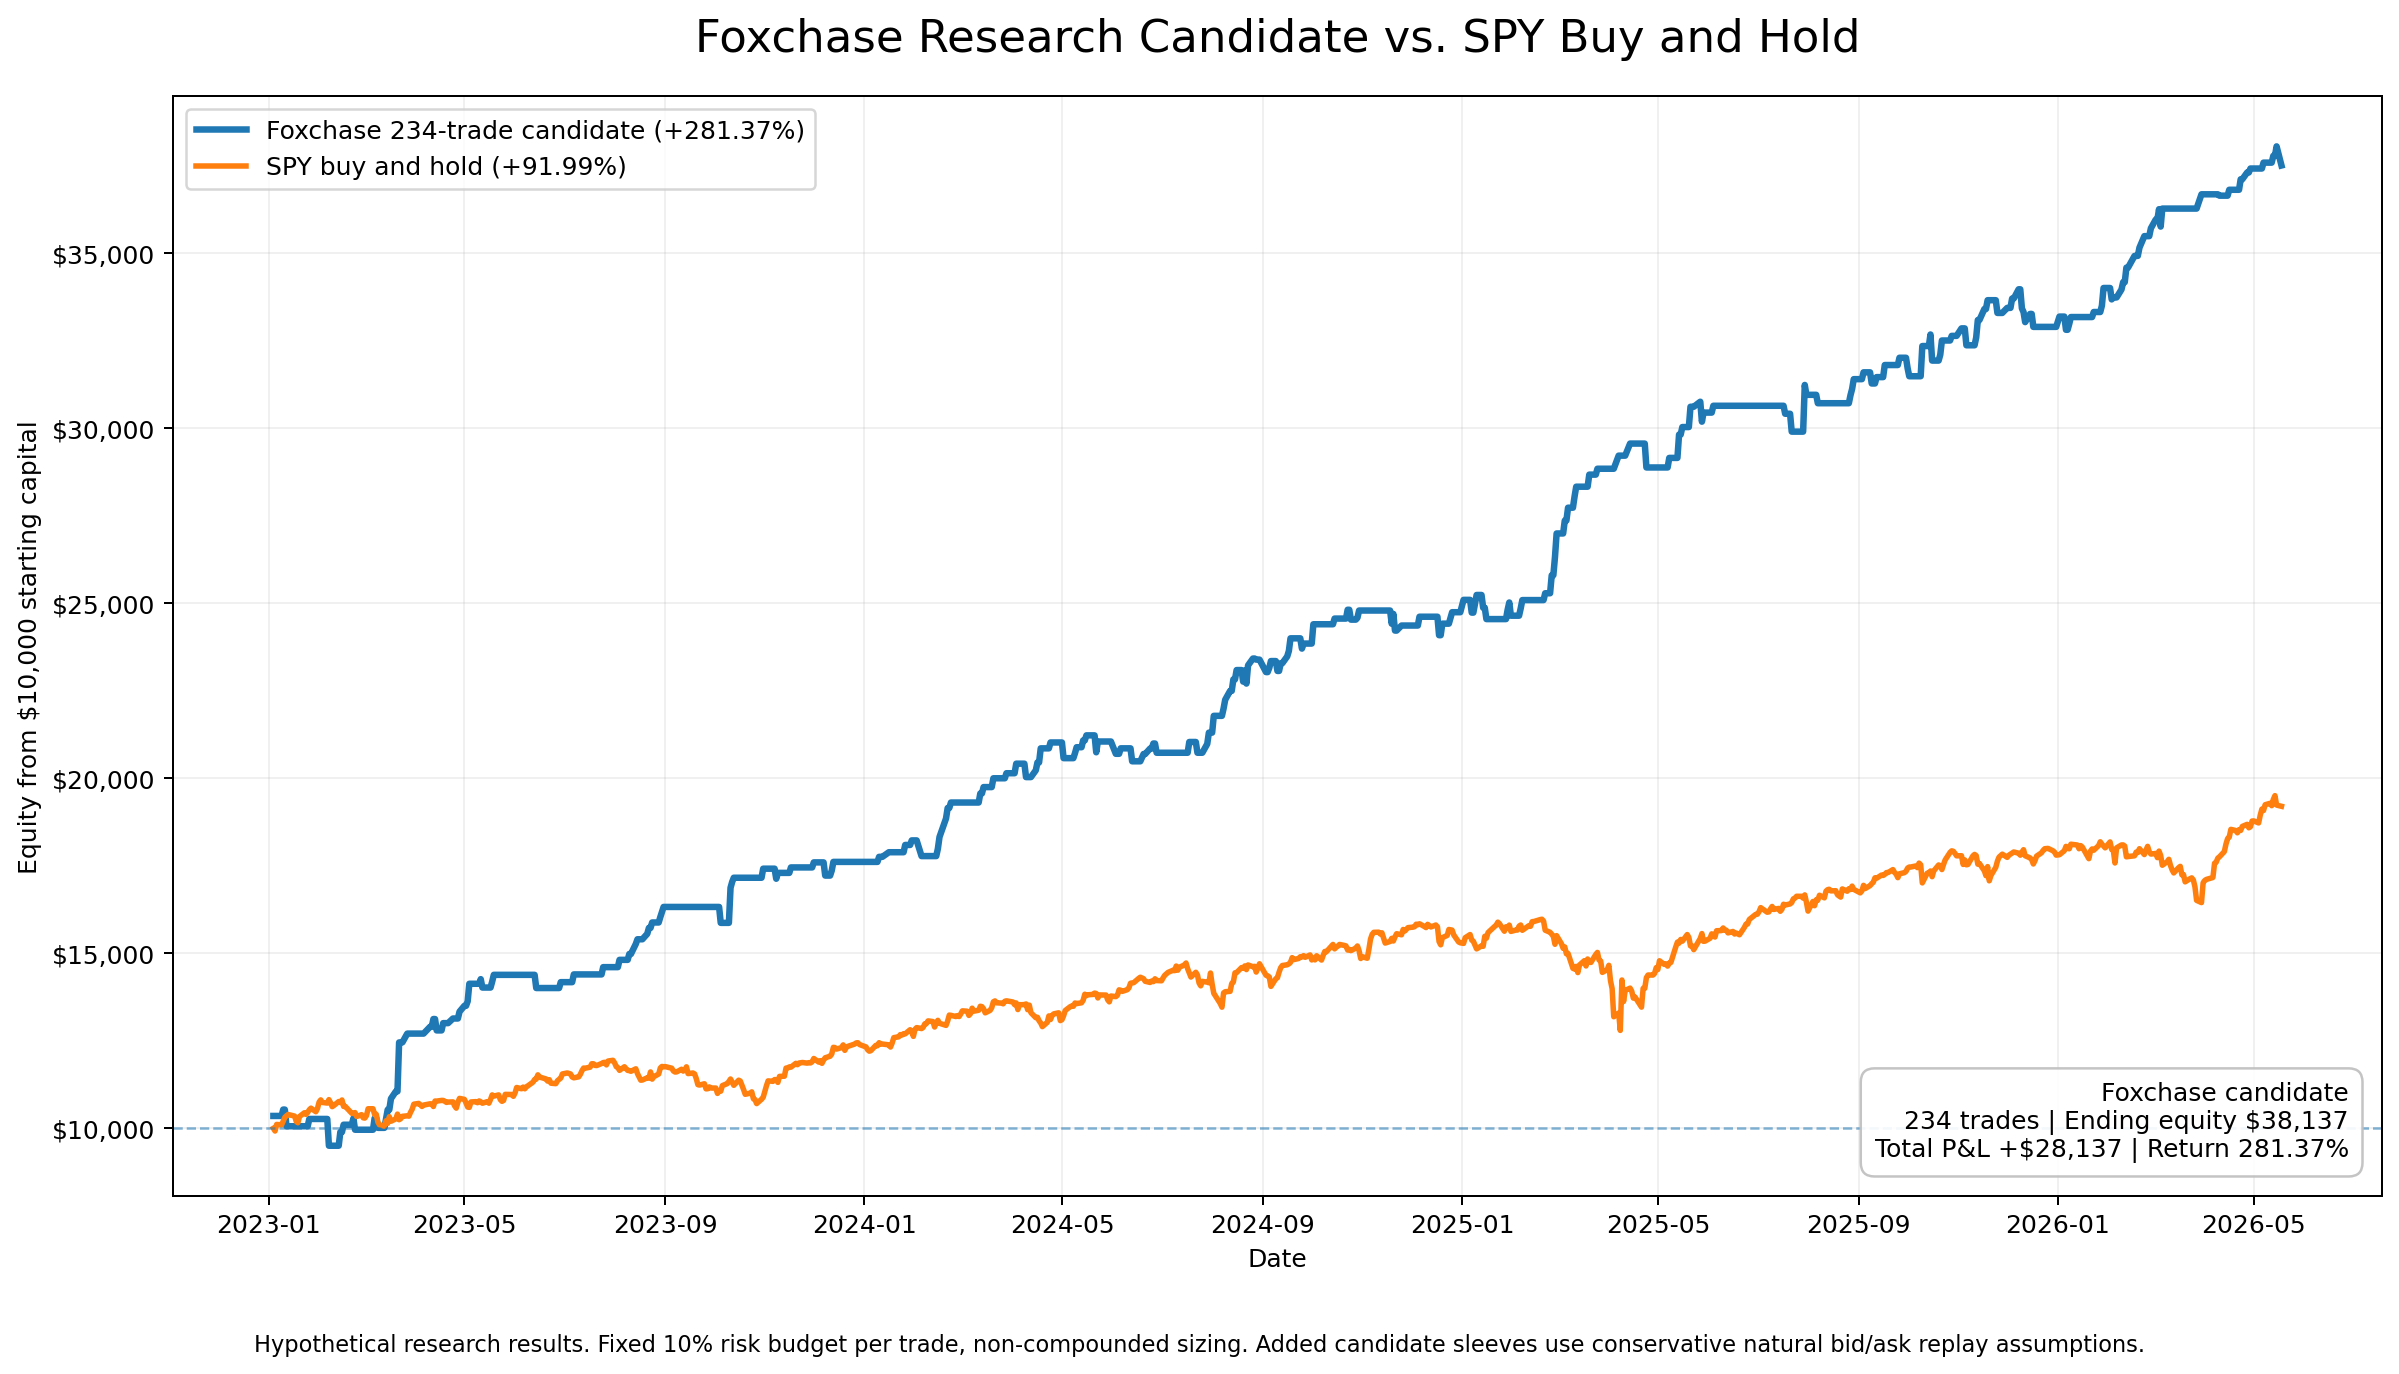
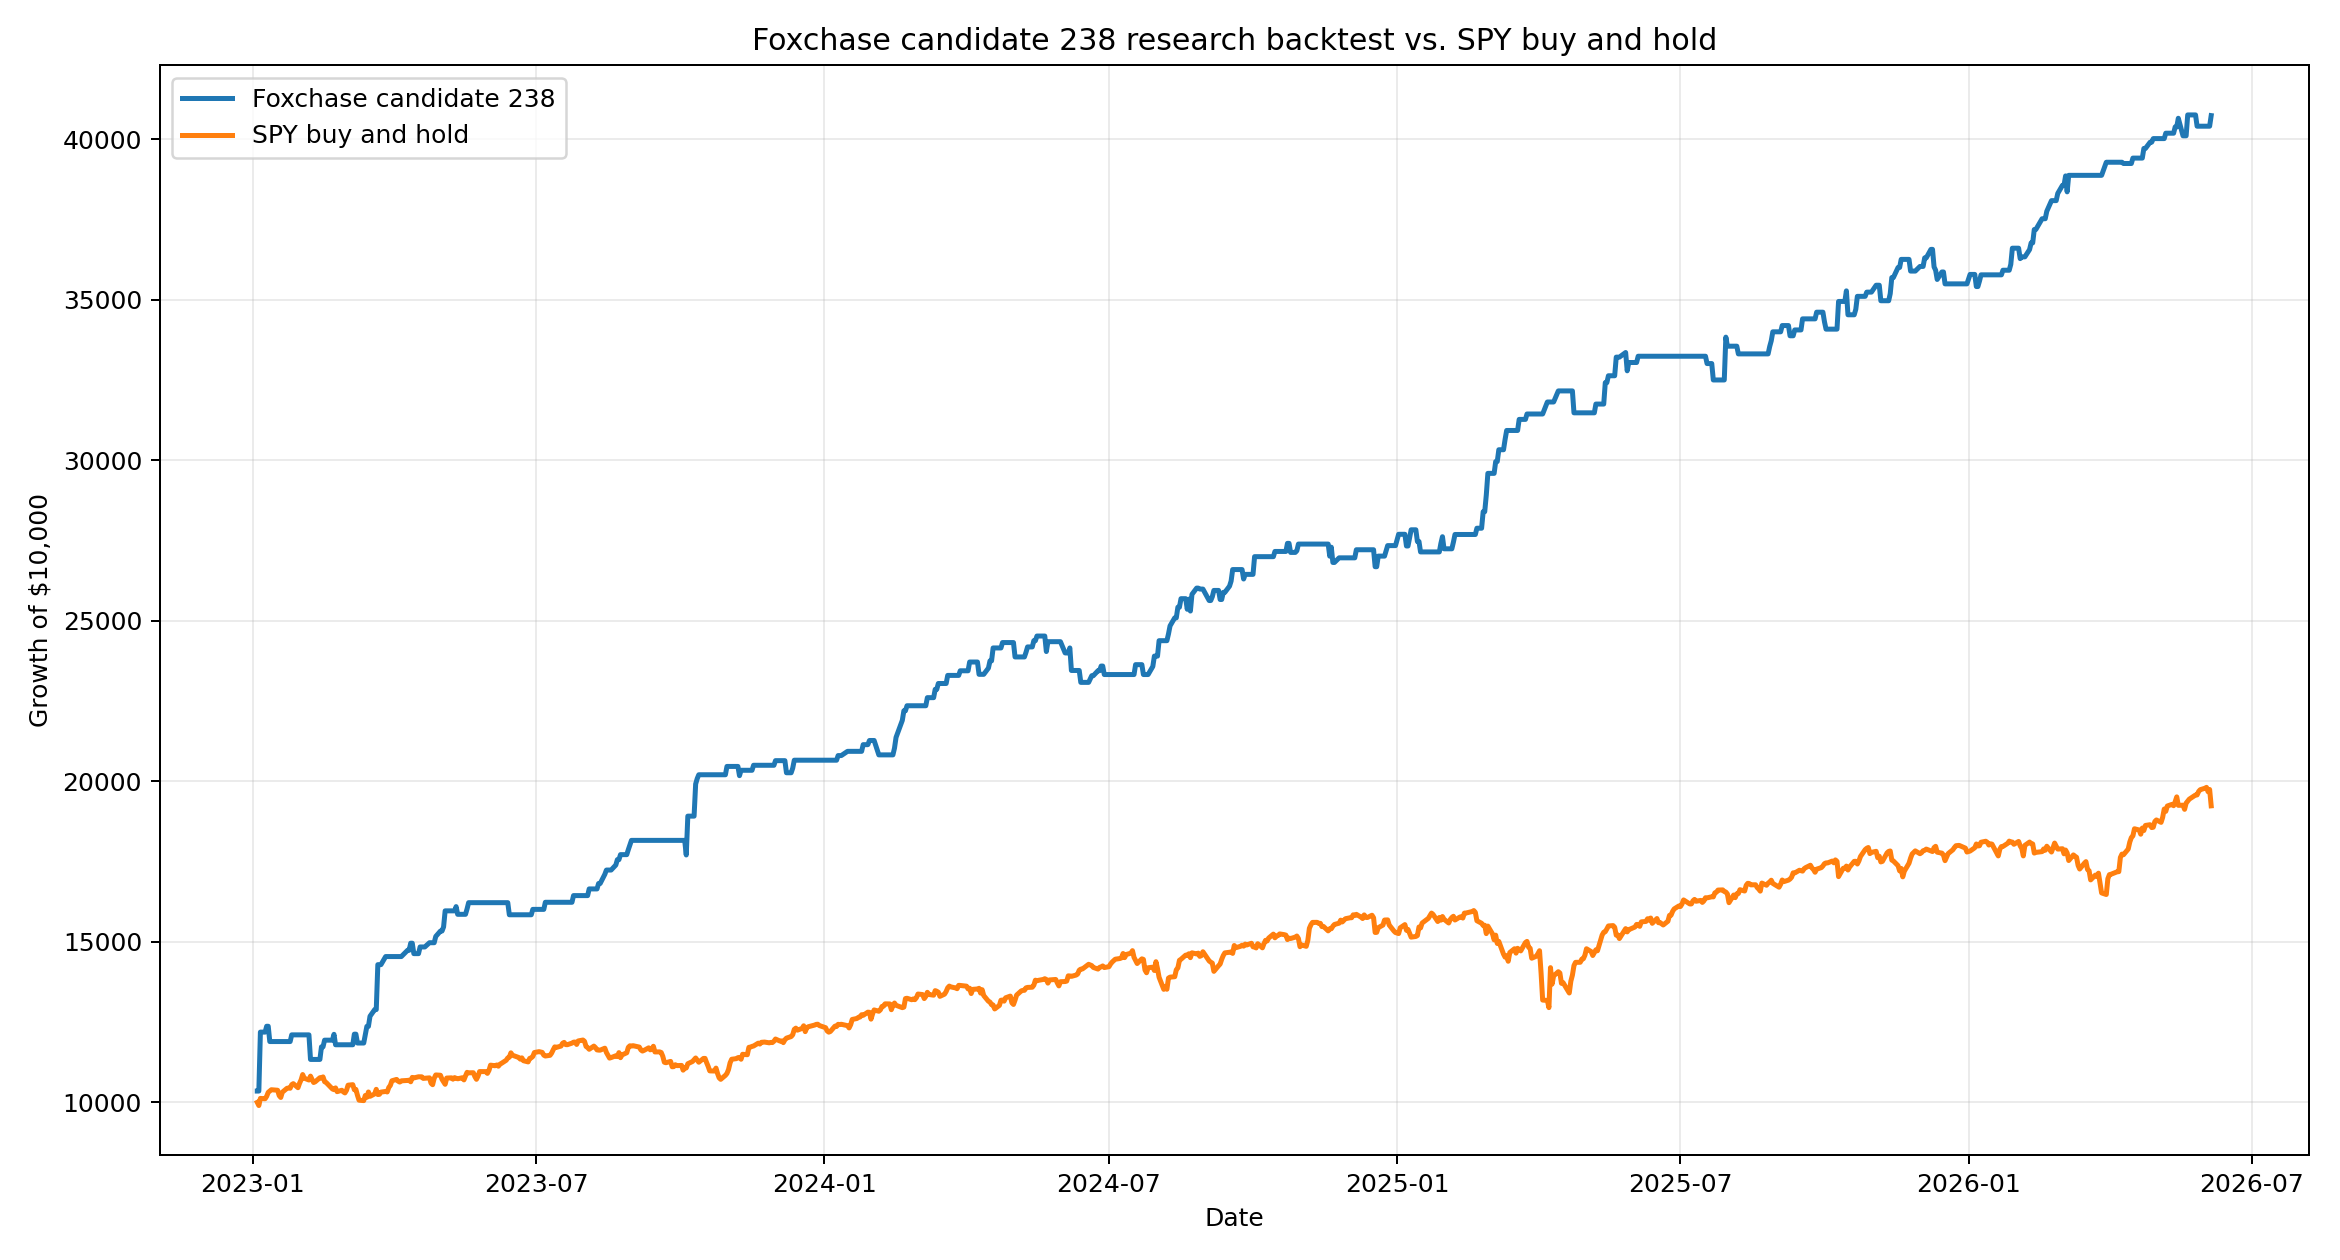
Update algo research backtest to candidate 238

diff --git a/algo-pnl.html b/algo-pnl.html
@@ -351,7 +351,7 @@ function setTextIfExists(id, value) {
     <div class="pnl-note">
       <strong>Research backtest, not live performance:</strong>
       The chart below compares the Foxchase historical research equity curve with SPY buy and hold.
-      The metrics below reflect the conservative 234-trade natural-fill candidate ledger, including the corrected production framework and the frozen candidate sleeves.
+      The metrics below reflect the 238-trade research candidate ledger, including the corrected production framework and the frozen candidate sleeves.
       This is hypothetical backtested performance and was not achieved by the live account during the full period shown.
     </div>
 
@@ -367,26 +367,27 @@ function setTextIfExists(id, value) {
 
     <div class="pnl-note">
       <strong>Latest research candidate ruleset:</strong>
-      The conservative candidate ledger contains 234 historical trades and uses a fixed 10% risk budget per trade with non-compounded position sizing.
-      It includes the corrected production framework, the frozen same-day sequential-entry exception, and an additional narrowly defined no-trade-day candidate sleeve.
-      The added candidate trades are valued using conservative natural bid/ask execution assumptions rather than midpoint fills.
-      The candidate backtest produced +$28,137.00 on a $10,000.00 starting account, ending at $38,137.00.
-      This represents a 281.37% total return over the research sample, not annualized, with a 76.92% win rate,
-      2.40 profit factor, and -9.81% historical maximum drawdown.
+      The research candidate ledger contains 238 historical trades and uses a fixed 10% risk budget per trade with non-compounded position sizing.
+      It includes the corrected production framework, the frozen same-day sequential-entry exception, the narrowly defined R5 no-trade-day candidate sleeve, and a strict no-steal R6 late-session directional candidate sleeve.
+      The sequential and R5 no-trade-day additions use conservative natural bid/ask execution replay.
+      The preliminary R6 sleeve uses historical option quote replay and contains only four eligible no-steal trades, so it remains subject to natural-fill replay and forward validation.
+      The candidate backtest produced +$30,733.00 on a $10,000.00 starting account, ending at $40,733.00.
+      This represents a 307.33% total return over the research sample, not annualized, with a 76.89% win rate,
+      2.48 profit factor, and -8.35% historical maximum drawdown.
       Candidate sleeves remain subject to continued forward validation.
     </div>
 
     <div class="research-metrics">
-      <div class="research-card"><div class="research-label">Research Candidate Sample</div><div class="research-value">234 trades</div></div>
-      <div class="research-card"><div class="research-label">Research Candidate P&amp;L</div><div class="research-value">+$28,137.00</div></div>
-      <div class="research-card"><div class="research-label">Ending Equity</div><div class="research-value">$38,137.00</div></div>
-      <div class="research-card"><div class="research-label">Total Return</div><div class="research-value">281.37%</div></div>
-      <div class="research-card"><div class="research-label">Win Rate</div><div class="research-value">76.92%</div></div>
-      <div class="research-card"><div class="research-label">Profit Factor</div><div class="research-value">2.40</div></div>
-      <div class="research-card"><div class="research-label">Max Drawdown</div><div class="research-value">-9.81%</div></div>
-      <div class="research-card"><div class="research-label">Average Trade</div><div class="research-value">$120.24</div></div>
+      <div class="research-card"><div class="research-label">Research Candidate Sample</div><div class="research-value">238 trades</div></div>
+      <div class="research-card"><div class="research-label">Research Candidate P&amp;L</div><div class="research-value">+$30,733.00</div></div>
+      <div class="research-card"><div class="research-label">Ending Equity</div><div class="research-value">$40,733.00</div></div>
+      <div class="research-card"><div class="research-label">Total Return</div><div class="research-value">307.33%</div></div>
+      <div class="research-card"><div class="research-label">Win Rate</div><div class="research-value">76.89%</div></div>
+      <div class="research-card"><div class="research-label">Profit Factor</div><div class="research-value">2.48</div></div>
+      <div class="research-card"><div class="research-label">Max Drawdown</div><div class="research-value">-8.35%</div></div>
+      <div class="research-card"><div class="research-label">Average Trade</div><div class="research-value">$129.13</div></div>
       <div class="research-card"><div class="research-label">Median Trade</div><div class="research-value">$195.00</div></div>
-      <div class="research-card"><div class="research-label">Best Trade</div><div class="research-value">$1,400.00</div></div>
+      <div class="research-card"><div class="research-label">Best Trade</div><div class="research-value">$1,836.00</div></div>
       <div class="research-card"><div class="research-label">Worst Trade</div><div class="research-value">-$765.00</div></div>
       <div class="research-card"><div class="research-label">SPY Buy &amp; Hold Return</div><div class="research-value">91.73%</div></div>
       <div class="research-card"><div class="research-label">SPY Buy &amp; Hold Max DD</div><div class="research-value">-19.89%</div></div>
@@ -397,10 +398,9 @@ function setTextIfExists(id, value) {
 
     <div class="pnl-note">
       <strong>Research sample context:</strong>
-      The conservative 234-trade candidate ledger generated +$28,137.00
-      from $10,000.00 of starting equity.
+      The durability statistics below currently reflect the prior 234-trade natural-fill candidate ledger, which generated +$28,137.00 from $10,000.00 of starting equity.
+      They have not yet been recalculated for the preliminary four-trade R6 candidate sleeve.
       Same-day trades are grouped together when calculating monthly and quarterly durability.
-      Candidate additions use conservative natural bid/ask execution assumptions.
     </div>
 
     <div class="research-metrics">
@@ -440,16 +440,18 @@ function setTextIfExists(id, value) {
           <tr><td>Setup G</td><td>19</td><td>$3,027.00</td><td>89.47%</td><td>4.33</td><td>$208.00</td><td>-$546.00</td></tr>
           <tr><td>Setup H</td><td>4</td><td>$745.00</td><td>100.00%</td><td>∞</td><td>$156.50</td><td>$132.00</td></tr>
           <tr><td>Setup I</td><td>24</td><td>$1,633.00</td><td>75.00%</td><td>1.78</td><td>$175.50</td><td>-$546.00</td></tr>
+          <tr><td>Setup J</td><td>4</td><td>$2,596.00</td><td>75.00%</td><td>4.70</td><td>$731.00</td><td>-$702.00</td></tr>
         </tbody>
       </table>
     </div>
 
 <p class="small">
-      Setup-level attribution is shown using nine anonymized research sleeves.
+      Setup-level attribution is shown using ten anonymized research sleeves.
       Setups A–F represent the corrected primary framework, including the frozen call-butterfly replacement as its own sleeve.
       Setup G represents the frozen no-steal failed-downside fade sleeve.
       Setup H represents the conservative natural-fill same-day sequential-entry candidate trades.
       Setup I represents the conservative natural-fill no-trade-day candidate sleeve.
+      Setup J represents the preliminary strict no-steal R6 late-session directional candidate sleeve.
       The exact trigger logic, regime definitions, level framework, strike construction, and execution rules are proprietary to the Foxchase framework.
     </p>
 
@@ -458,8 +460,9 @@ function setTextIfExists(id, value) {
       Position size does not increase as the backtest equity curve grows.
       The framework normally allows one selected trade per day.
       The candidate ledger includes one frozen same-day sequential-entry exception after the original trade has fully closed.
-      It also includes a narrowly defined no-trade-day sleeve that is considered only when the primary framework has no selected trade.
-      Candidate additions are reported using conservative natural bid/ask fill replay.
+      It also includes a narrowly defined R5 no-trade-day sleeve and a preliminary R6 late-session sleeve, both of which are considered only when the primary framework has no selected trade.
+      The sequential and R5 no-trade-day additions use conservative natural bid/ask fill replay.
+      The four-trade R6 candidate sleeve currently uses historical option quote replay and requires additional execution validation.
       The R1 call butterfly remains replacement logic rather than an additional same-day trade,
       and the failed-downside fade remains no-steal only.
       Historical options quote data was sourced from ThetaData.